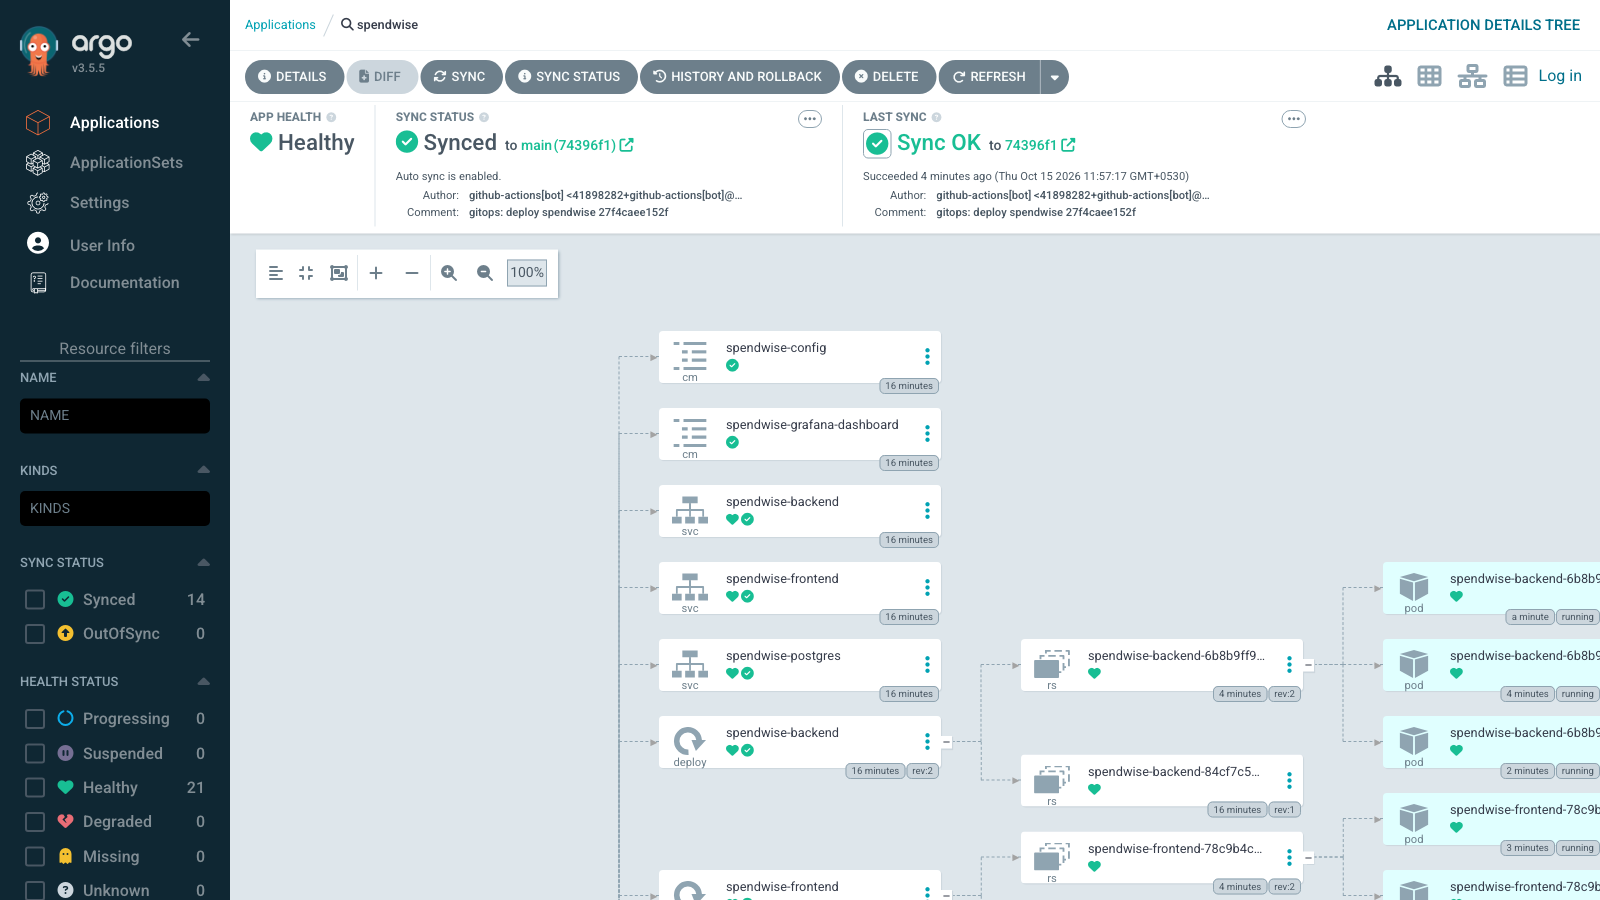
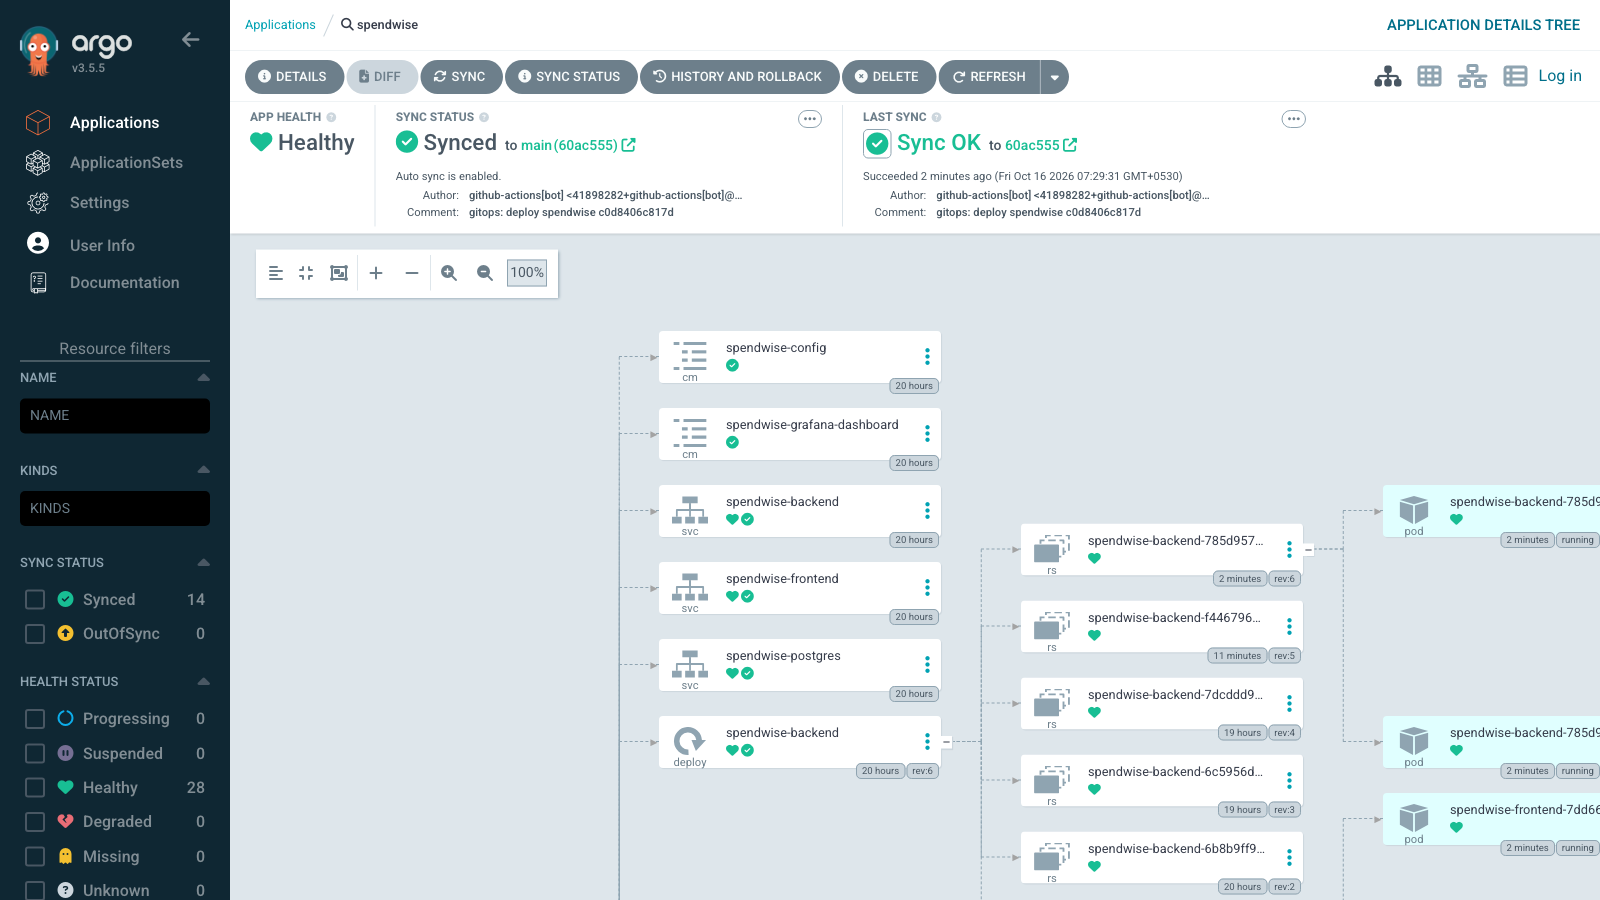
Final project: live demo and Argo CD move recorded on the new repository, refreshed screenshots

diff --git a/README.md b/README.md
@@ -94,7 +94,7 @@ Infrastructure: Terraform → AWS VPC + EKS
 
 ```mermaid
 flowchart LR
-    Dev([Developer]) -->|git push| Repo[(GitHub repo<br/>DevOps-Coursework)]
+    Dev([Developer]) -->|git push| Repo[(GitHub repo<br/>DevOps-Coursework-final)]
     Repo -->|push to main| CI
 
     subgraph CI["GitHub Actions: final-devops-project.yml"]
@@ -401,7 +401,7 @@ Images are tagged only with the **commit SHA**, never `latest`, so every running
 
 Every run is listed under [Actions → "Final project · SpendWise CI/CD"](https://github.com/Abhinavsuri90/DevOps-Coursework-final/actions/workflows/final-devops-project.yml).
 
-**A green run.** [Run 38690443409](https://github.com/Abhinavsuri90/DevOps-Coursework-final/actions/runs/38690443409), on commit `73177c1`, passed all 12 jobs in 5 min 49 s:
+**A green run.** [Run 38836429276](https://github.com/Abhinavsuri90/DevOps-Coursework-final/actions/runs/38836429276), on commit `37f1793`, passed all 12 jobs in 5 min 57 s:
 
 ![Green pipeline run on GitHub Actions](screenshots/browser-11-github-actions-run.png)
 
@@ -530,13 +530,11 @@ The same checks from the terminal (metrics, ServiceMonitor, targets, rule health
 - `am` lists what reached Alertmanager
 - `query '<PromQL>'` runs an instant query
 
-**On an 8 GB laptop.** Minikube has about 3.4 GB of memory for everything: the control plane, the monitoring stack, Argo CD and the app. When Argo CD runs too, pause what you are not showing, and bring it back for the monitoring part of a demo:
+**On an 8 GB laptop.** Minikube has about 3.4 GB of memory for everything: the control plane, the monitoring stack, Argo CD and the app. Running all of them together pushed the node into a restart storm, so the [Makefile](Makefile) has two modes:
 
 ```bash
-kubectl -n monitoring patch prometheus kps-kube-prometheus-stack-prometheus --type merge -p '{"spec":{"replicas":1}}'
-kubectl -n monitoring patch alertmanager kps-kube-prometheus-stack-alertmanager --type merge -p '{"spec":{"replicas":1}}'
-kubectl -n monitoring scale deploy/kps-grafana --replicas=1
-kubectl -n spendwise scale deploy/spendwise-traffic --replicas=1      # synthetic traffic for the panels
+make mode-monitoring   # Prometheus, Alertmanager, Grafana and demo traffic on; Argo CD paused
+make mode-gitops       # Argo CD on; the monitoring stack and demo traffic paused
 ```
 
 ## GitOps
@@ -595,19 +593,23 @@ Until now the namespace had been deployed by hand with Helm. For GitOps I handed
 
 ![Argo CD application tree for spendwise](screenshots/browser-10-argocd-spendwise.png)
 
+**Repository move.** The project now lives in `github.com/Abhinavsuri90/DevOps-Coursework-final`, and the images are repository-scoped (`ghcr.io/abhinavsuri90/devops-coursework-final/spendwise-*`). Changing `repoURL` in [gitops/argocd-application.yaml](gitops/argocd-application.yaml) was the whole migration. Argo CD synced from the new repository in 110 s, with the new images, every Pod Ready with 0 restarts, and the data intact ([evidence/13-argocd-new-repo.txt](evidence/13-argocd-new-repo.txt)):
+
+![Argo CD switched to the new repository](screenshots/26-argocd-new-repo.png)
+
 ### Live demo (M10): commit → pipeline → deployment update (recorded)
 
-One commit, and everything after it is automatic ([evidence/11-m10-commit-to-deploy.txt](evidence/11-m10-commit-to-deploy.txt)):
+One commit, and everything after it is automatic. This was recorded on the new repository ([evidence/11-m10-commit-to-deploy.txt](evidence/11-m10-commit-to-deploy.txt)):
 
 | Step | What happened | When (UTC) |
 | --- | --- | --- |
-| 1. Developer | Commit [`27f4cae`](https://github.com/Abhinavsuri90/DevOps-Coursework-final/commit/27f4cae) *"SpendWise: show the running version (commit SHA) in the footer"* (backend `GET /api/version` + a test, React footer), then `git push` | 06:20:45 |
-| 2. CI | [Run 38691857530](https://github.com/Abhinavsuri90/DevOps-Coursework-final/actions/runs/38691857530): all 12 jobs green in 5 min 18 s, images pushed as `spendwise-*:27f4caee152f` | 06:20:49 → 06:26:07 |
-| 3. GitOps commit | `github-actions[bot]` committed [`74396f1`](https://github.com/Abhinavsuri90/DevOps-Coursework-final/commit/74396f1) *"gitops: deploy spendwise 27f4caee152f"*, changing only the two image tags | 06:26:03 |
-| 4. Argo CD | Detected `74396f1` and rolled out the new Pods (no restarts) | applied 06:27:16, Healthy 234 s after the commit appeared |
-| 5. Result | `GET /api/version` → `{"version":"27f4caee152f"}`, and the footer shows **version 27f4caee152f** | |
+| 1. Developer | Commit [`c0d8406`](https://github.com/Abhinavsuri90/DevOps-Coursework-final/commit/c0d8406) *"SpendWise: new subtitle (live GitOps demo)"*: one line in [App.jsx](application/frontend/src/App.jsx), committed on its own, then `git push` | 01:53:10 |
+| 2. CI | [Run 38837520932](https://github.com/Abhinavsuri90/DevOps-Coursework-final/actions/runs/38837520932): all 12 jobs green (tests, SAST + IaC scan, SCA, secrets, images + Trivy, gate, GHCR push, kind deploy, GitOps update) in 5 min 26 s. Images pushed as `…/spendwise-*:c0d8406c817d` | 01:53:15 → 01:58:41 |
+| 3. GitOps commit | `github-actions[bot]` committed [`60ac555`](https://github.com/Abhinavsuri90/DevOps-Coursework-final/commit/60ac555) *"gitops: deploy spendwise c0d8406c817d"*, changing only the two image tags | 01:58:37 |
+| 4. Argo CD | Detected `60ac555` and rolled out the new Pods one by one (0 restarts). **Synced + Healthy 72 s** after the commit appeared | applied 01:59:31 |
+| 5. Result | `GET /api/version` → `{"version":"c0d8406c817d"}`. The page shows the new subtitle *"Track every rupee you spend this semester"* and the footer **version c0d8406c817d** | |
 
-| Before: tag `73177c13c2e9`, no version in the footer | After: tag `27f4caee152f`, footer shows the version |
+| Before: tag `37f179315587`, old subtitle | After: tag `c0d8406c817d`, new subtitle and version |
 | --- | --- |
 | ![Before the rollout](screenshots/browser-09-gitops-before.png) | ![After the rollout](screenshots/browser-14-gitops-after.png) |
 
